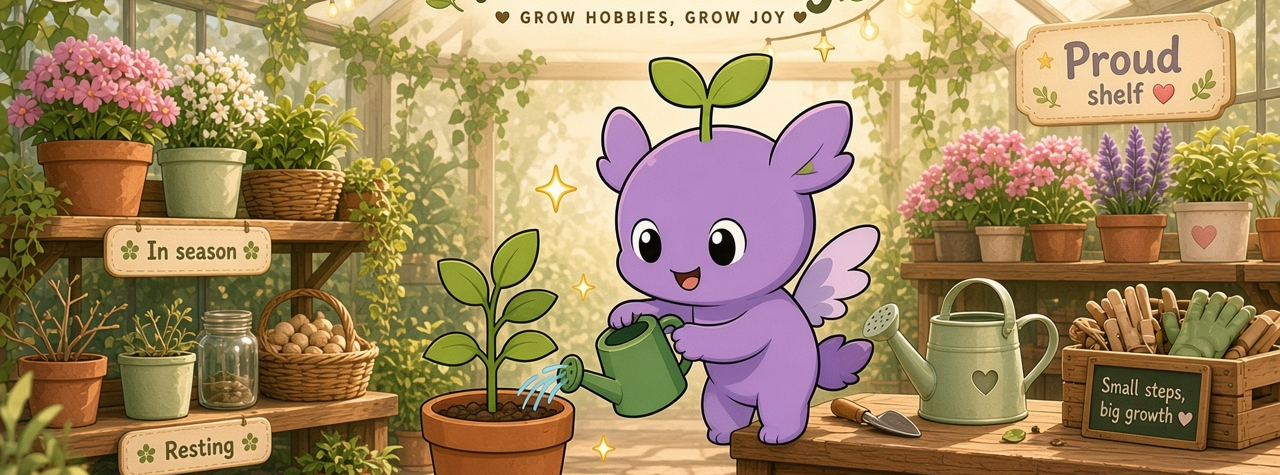
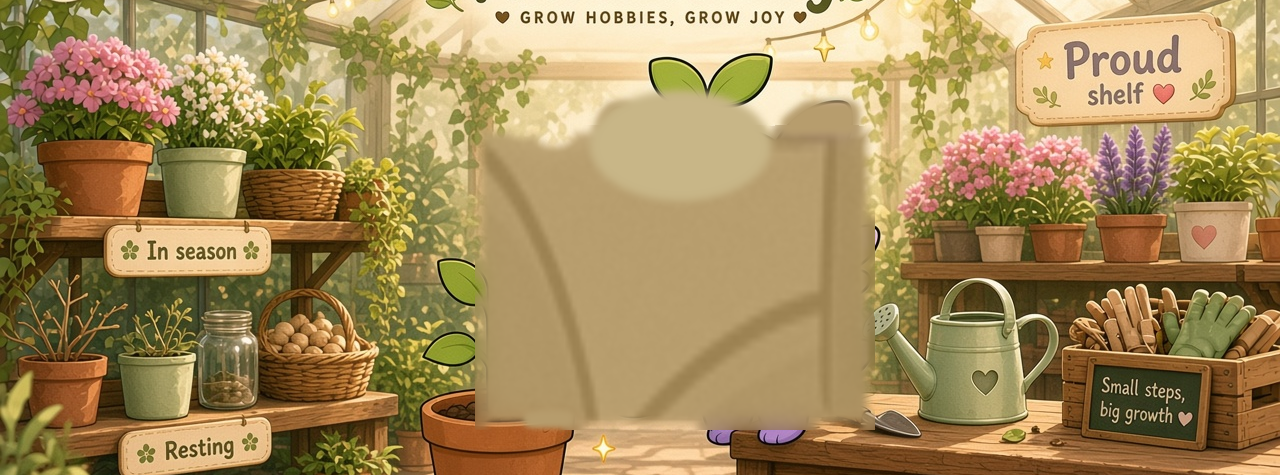
Hide baked Sprout in room-bg and keep sparkle eyes while walking
Inpaint the center watering pose out of room-bg, strengthen sprout fog,
amplify idle eye gleams, add CSS gleam overlays, and drop heavy filters
during walk so pupils stay cute when Sprout leaves center.

Changed region(s): [[0.3438, 0.1768, 0.6875, 0.9137]]

diff --git a/src/components/GreenhouseScene.css b/src/components/GreenhouseScene.css
@@ -1,20 +1,22 @@
-/* Cover painted Sprout (and watering can) baked into room-bg while live actor is present */
+/* Cover any leftover baked Sprout/watering pose in room-bg (BG is also inpainted) */
 .gh-sprout-fog {
   position: absolute;
-  left: 39%;
-  top: 38%;
-  width: 24%;
-  height: 46%;
+  left: 34%;
+  top: 28%;
+  width: 34%;
+  height: 58%;
   pointer-events: none;
   z-index: 2;
   background:
     radial-gradient(
-      ellipse 58% 52% at 48% 52%,
-      rgba(242, 226, 180, 0.98) 0%,
-      rgba(236, 220, 173, 0.94) 28%,
-      rgba(248, 230, 188, 0.78) 48%,
-      rgba(243, 230, 196, 0.35) 68%,
-      transparent 82%
+      ellipse 62% 58% at 48% 52%,
+      rgba(236, 214, 168, 1) 0%,
+      rgba(242, 226, 180, 0.98) 22%,
+      rgba(236, 220, 173, 0.96) 40%,
+      rgba(248, 230, 188, 0.88) 55%,
+      rgba(243, 230, 196, 0.55) 70%,
+      rgba(243, 230, 196, 0.2) 82%,
+      transparent 92%
     );
   opacity: 1;
 }
@@ -23,7 +25,7 @@
 .gh-actor {
   position: absolute;
   z-index: 7;
-  width: clamp(3.4rem, 9.5vw, 5.6rem);
+  width: clamp(3.7rem, 10.2vw, 6rem);
   pointer-events: none;
   transform: translate(-50%, -70%);
   transition-property: left, top;
@@ -37,7 +39,16 @@
   align-items: flex-end;
   justify-content: center;
   line-height: 0;
-  filter: drop-shadow(1px 3px 0 rgba(42, 64, 48, 0.16));
+  /* Light shadow only — heavy filters crush eye highlights when downscaled */
+  filter: drop-shadow(1px 2px 0 rgba(42, 64, 48, 0.12));
+}
+
+/* Walking: drop filter entirely so sparkle pupils stay crisp */
+.gh-actor--walkingToShelf .gh-actor__body,
+.gh-actor--walkingToBench .gh-actor__body,
+.gh-actor--returning .gh-actor__body,
+.gh-actor--pickingUp .gh-actor__body {
+  filter: none;
 }
 
 .gh-actor__sprite {
@@ -46,6 +57,50 @@
   height: auto;
   user-select: none;
   -webkit-user-drag: none;
+  image-rendering: auto;
+}
+
+/* Crisp white eye gleams that survive downscale / GPU walk transforms */
+.gh-actor__gleams {
+  position: absolute;
+  inset: 0;
+  pointer-events: none;
+  z-index: 1;
+}
+
+.gh-actor__gleam {
+  position: absolute;
+  border-radius: 50%;
+  background: #fff;
+  box-shadow: 0 0 0.5px rgba(255, 255, 255, 0.9);
+}
+
+.gh-actor__gleam--l1 {
+  left: 28.5%;
+  top: 38.5%;
+  width: 7.5%;
+  height: 6.5%;
+}
+
+.gh-actor__gleam--l2 {
+  left: 32%;
+  top: 45%;
+  width: 3.2%;
+  height: 2.8%;
+}
+
+.gh-actor__gleam--r1 {
+  left: 52.5%;
+  top: 39%;
+  width: 7.5%;
+  height: 6.5%;
+}
+
+.gh-actor__gleam--r2 {
+  left: 56%;
+  top: 45.5%;
+  width: 3.2%;
+  height: 2.8%;
 }
 
 .gh-actor--flip .gh-actor__body {
@@ -134,8 +189,15 @@
 }
 
 .gh-actor--sparkle .gh-actor__body {
-  filter: drop-shadow(1px 3px 0 rgba(42, 64, 48, 0.16))
-    drop-shadow(0 0 6px rgba(255, 230, 120, 0.4));
+  filter: drop-shadow(1px 2px 0 rgba(42, 64, 48, 0.12))
+    drop-shadow(0 0 5px rgba(255, 230, 120, 0.35));
+}
+
+.gh-actor--sparkle.gh-actor--walkingToShelf .gh-actor__body,
+.gh-actor--sparkle.gh-actor--walkingToBench .gh-actor__body,
+.gh-actor--sparkle.gh-actor--returning .gh-actor__body,
+.gh-actor--sparkle.gh-actor--pickingUp .gh-actor__body {
+  filter: drop-shadow(0 0 4px rgba(255, 230, 120, 0.3));
 }
 
 /* Shelf tile hidden while that pot is being carried */

diff --git a/src/components/GreenhouseScene.tsx b/src/components/GreenhouseScene.tsx
@@ -268,6 +268,12 @@ export const GreenhouseScene = forwardRef<GreenhouseSceneHandle, GreenhouseScene
         >
           <div className="gh-actor__body">
             <SproutSprite src={sproutSrc} />
+            <span className="gh-actor__gleams" aria-hidden="true">
+              <i className="gh-actor__gleam gh-actor__gleam--l1" />
+              <i className="gh-actor__gleam gh-actor__gleam--l2" />
+              <i className="gh-actor__gleam gh-actor__gleam--r1" />
+              <i className="gh-actor__gleam gh-actor__gleam--r2" />
+            </span>
             {holding && hobby ? (
               <span className="gh-actor__plant" aria-hidden="true">
                 <ThemeObjectArt
